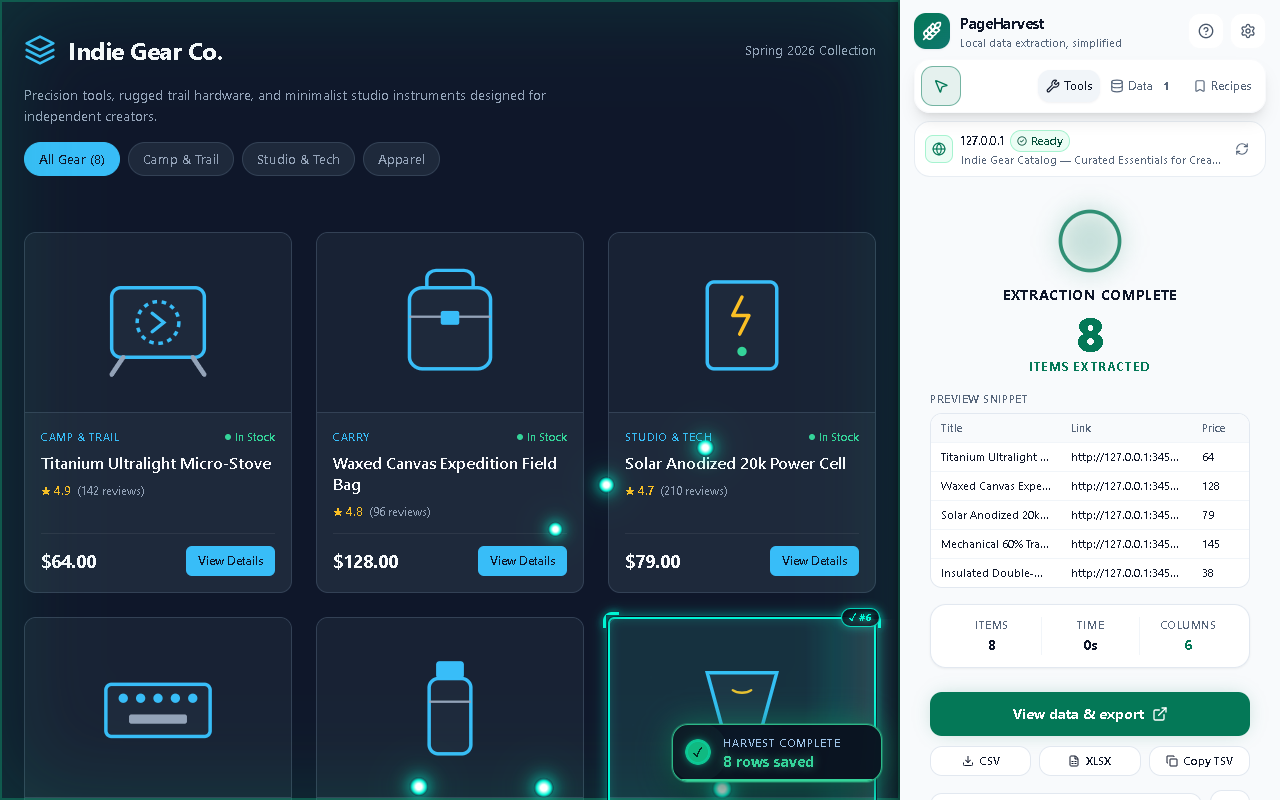
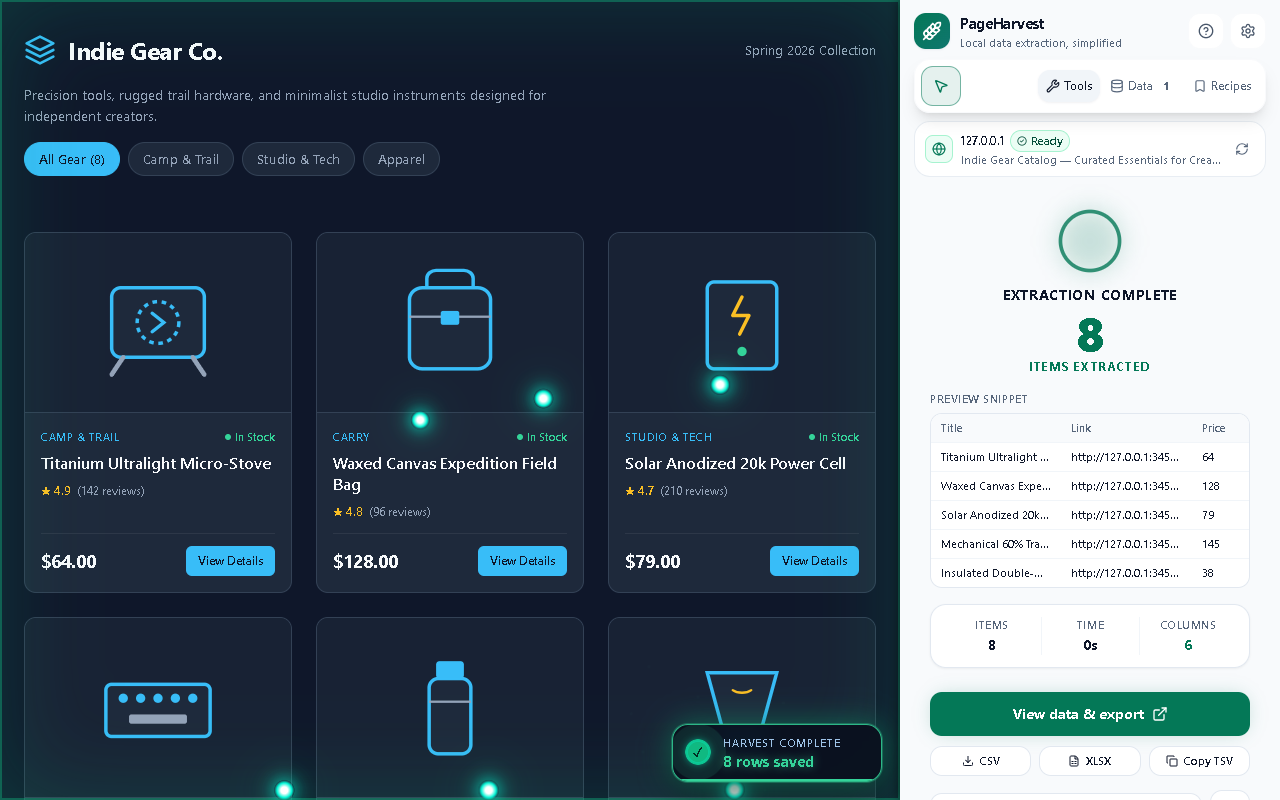
chore(release): refresh store captures and harden pagination selection

diff --git a/tests/e2e/helpers/panel.ts b/tests/e2e/helpers/panel.ts
@@ -6,7 +6,7 @@
  * Specs call these helpers instead of repeating labels, so a copy change is fixed
  * in one place.
  */
-import type { Page, Worker } from '@playwright/test';
+import { expect, type Page, type Worker } from '@playwright/test';
 import { GUIDE_STORAGE_KEY } from '../../../src/components/guide/preferences';
 import { ADVANCED_STORAGE_KEY } from '../../../src/components/settings/advanced-preference';
 import { CONSENT_STORAGE_KEY } from '../../../src/components/consent/consent';
@@ -98,7 +98,11 @@ export const startExtraction = (panel: Page) => panel.getByRole('button', { name
 
 /** Pagination options are always visible in ListSetupView's second card once a list is found. */
 export async function goToPagination(panel: Page): Promise<void> {
-  await panel.getByText('② Load More Items').waitFor({ timeout: 15000 });
+  await panel
+    .getByText('② Load More Items')
+    .or(panel.getByRole('group', { name: /How does this site show more items/ }))
+    .first()
+    .waitFor({ timeout: 15000 });
 }
 
 /** Moves from Pagination back to the list setup, if the detailed flow is present. */
@@ -110,16 +114,27 @@ export async function goToFields(panel: Page): Promise<void> {
 
 export type PaginationMode = 'none' | 'next_button' | 'infinite_scroll' | 'url_template';
 
+/** The visible option label in ListSetupView, or the radio name in the detailed panel. */
 const MODE_LABEL: Record<PaginationMode, string> = {
   none: 'This Page Only',
   next_button: 'Pagination',
   infinite_scroll: 'Auto-Scroll',
-  url_template: 'Pagination',
+  url_template: 'Page numbers in the URL',
 };
 
 export async function choosePagination(panel: Page, mode: PaginationMode): Promise<void> {
   await goToPagination(panel);
-  await panel.getByRole('radio', { name: new RegExp(MODE_LABEL[mode], 'i') }).check();
+  const label = MODE_LABEL[mode];
+  const named = panel.getByRole('radio', { name: new RegExp(label, 'i') });
+  if (await named.count()) {
+    await named.first().check();
+    return;
+  }
+  // The setup screen's Pagination and Load More radios sit in a div, so they have no
+  // accessible name. Click the real option and prove its radio is now checked.
+  const option = panel.getByText(label, { exact: true }).first();
+  await option.click();
+  await expect(option.locator('xpath=../..').locator('input[type="radio"]')).toBeChecked();
 }
 
 async function openAdvanced(panel: Page): Promise<void> {

diff --git a/src/components/list-extractor/ListSetupView.tsx b/src/components/list-extractor/ListSetupView.tsx
@@ -299,6 +299,7 @@ export const ListSetupView: React.FC<ListSetupViewProps> = ({
               <input
                 type="radio"
                 name="pagination-mode"
+                aria-label="Pagination"
                 checked={currentMode === 'next_button' && !isLoadMoreMode}
                 onChange={() => handleSelectMode('next_button')}
                 className="mt-0.5 accent-brand"
@@ -348,6 +349,7 @@ export const ListSetupView: React.FC<ListSetupViewProps> = ({
               <input
                 type="radio"
                 name="pagination-mode"
+                aria-label="Load More"
                 checked={isLoadMoreMode}
                 onChange={() => handleSelectMode('load_more')}
                 className="mt-0.5 accent-brand"
